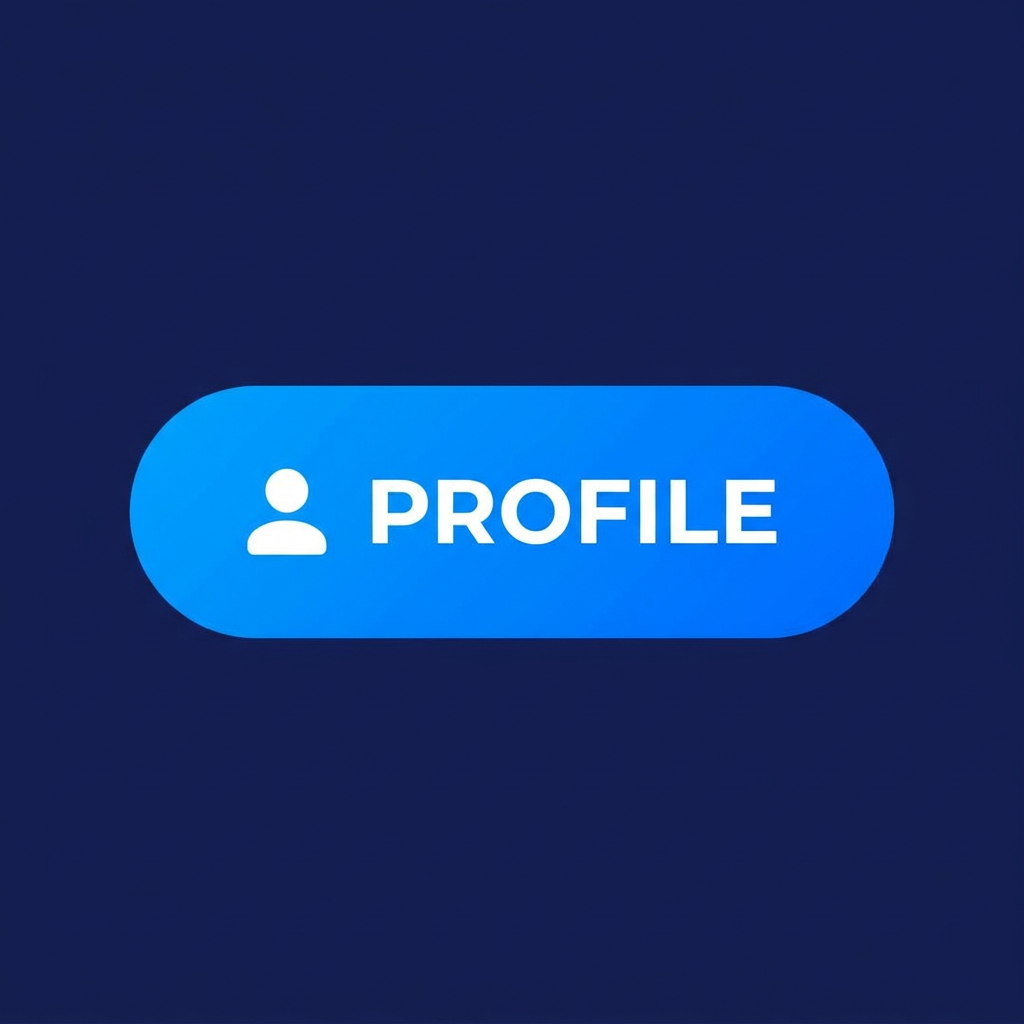
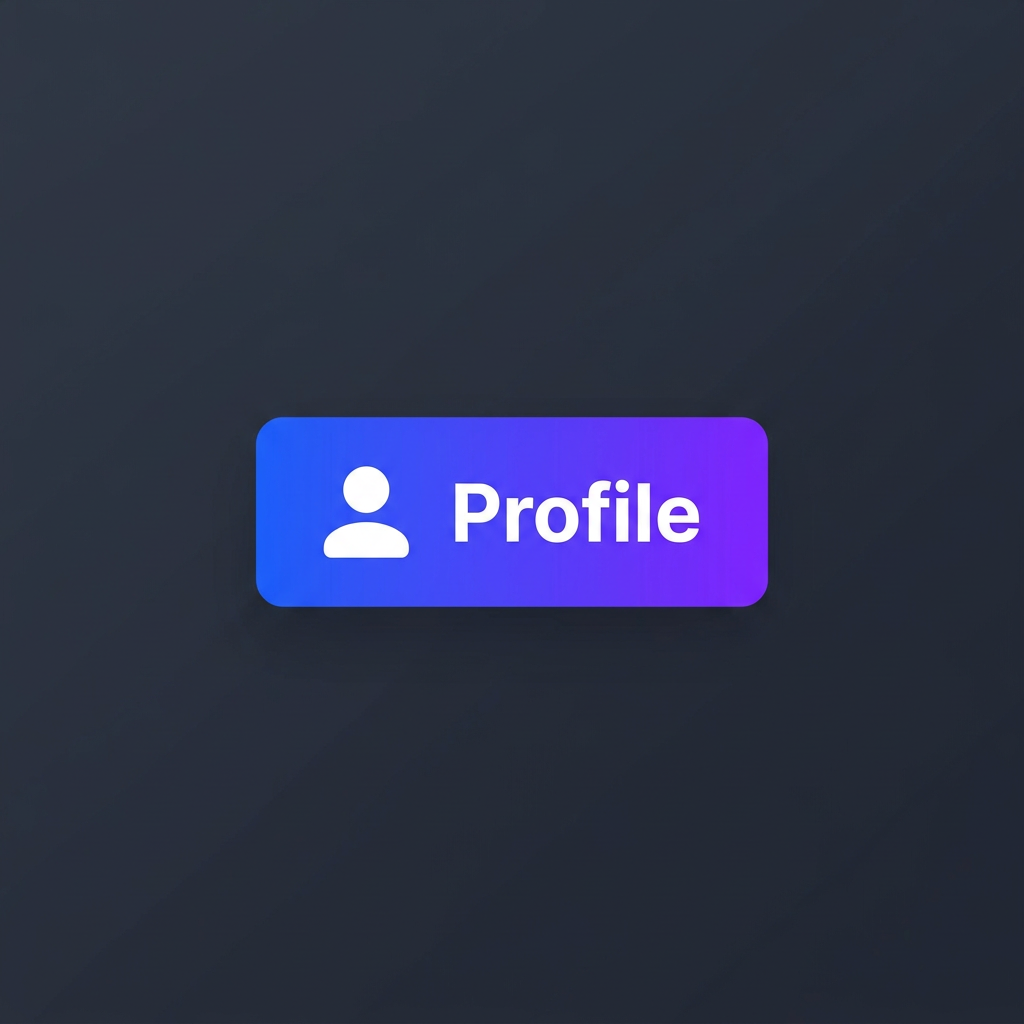
Implement new generated assets

diff --git a/src/components/Avatar.jsx b/src/components/Avatar.jsx
@@ -11,9 +11,7 @@ export default function Avatar({ url, name, size = 'large', xp = 0 }) {
       {url ? (
         <img src={url} alt={name || 'Avatar'} className="avatar-img" />
       ) : (
-        <div className="avatar-placeholder">
-          <span className="avatar-initials">{initials}</span>
-        </div>
+        <img src="/assets/raw/character_avatar_0.png" alt={name || 'Default Avatar'} className="avatar-img" />
       )}
       {xp > 0 && (
         <div className="avatar-xp-badge">
